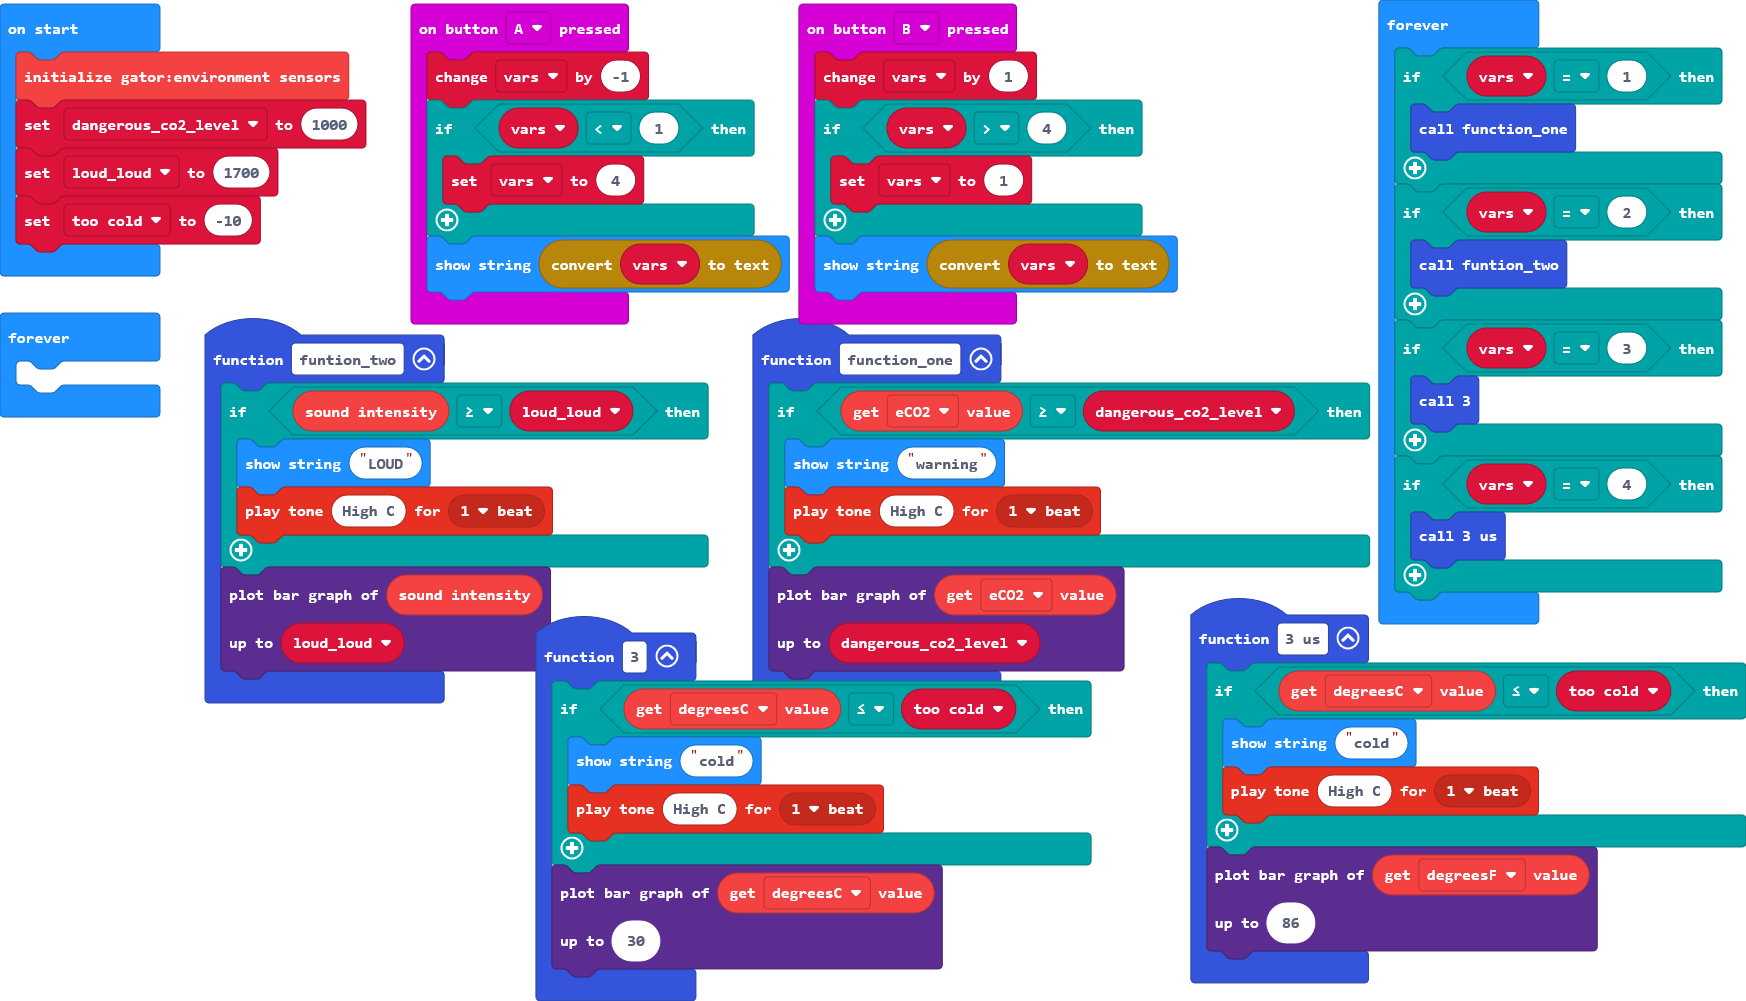
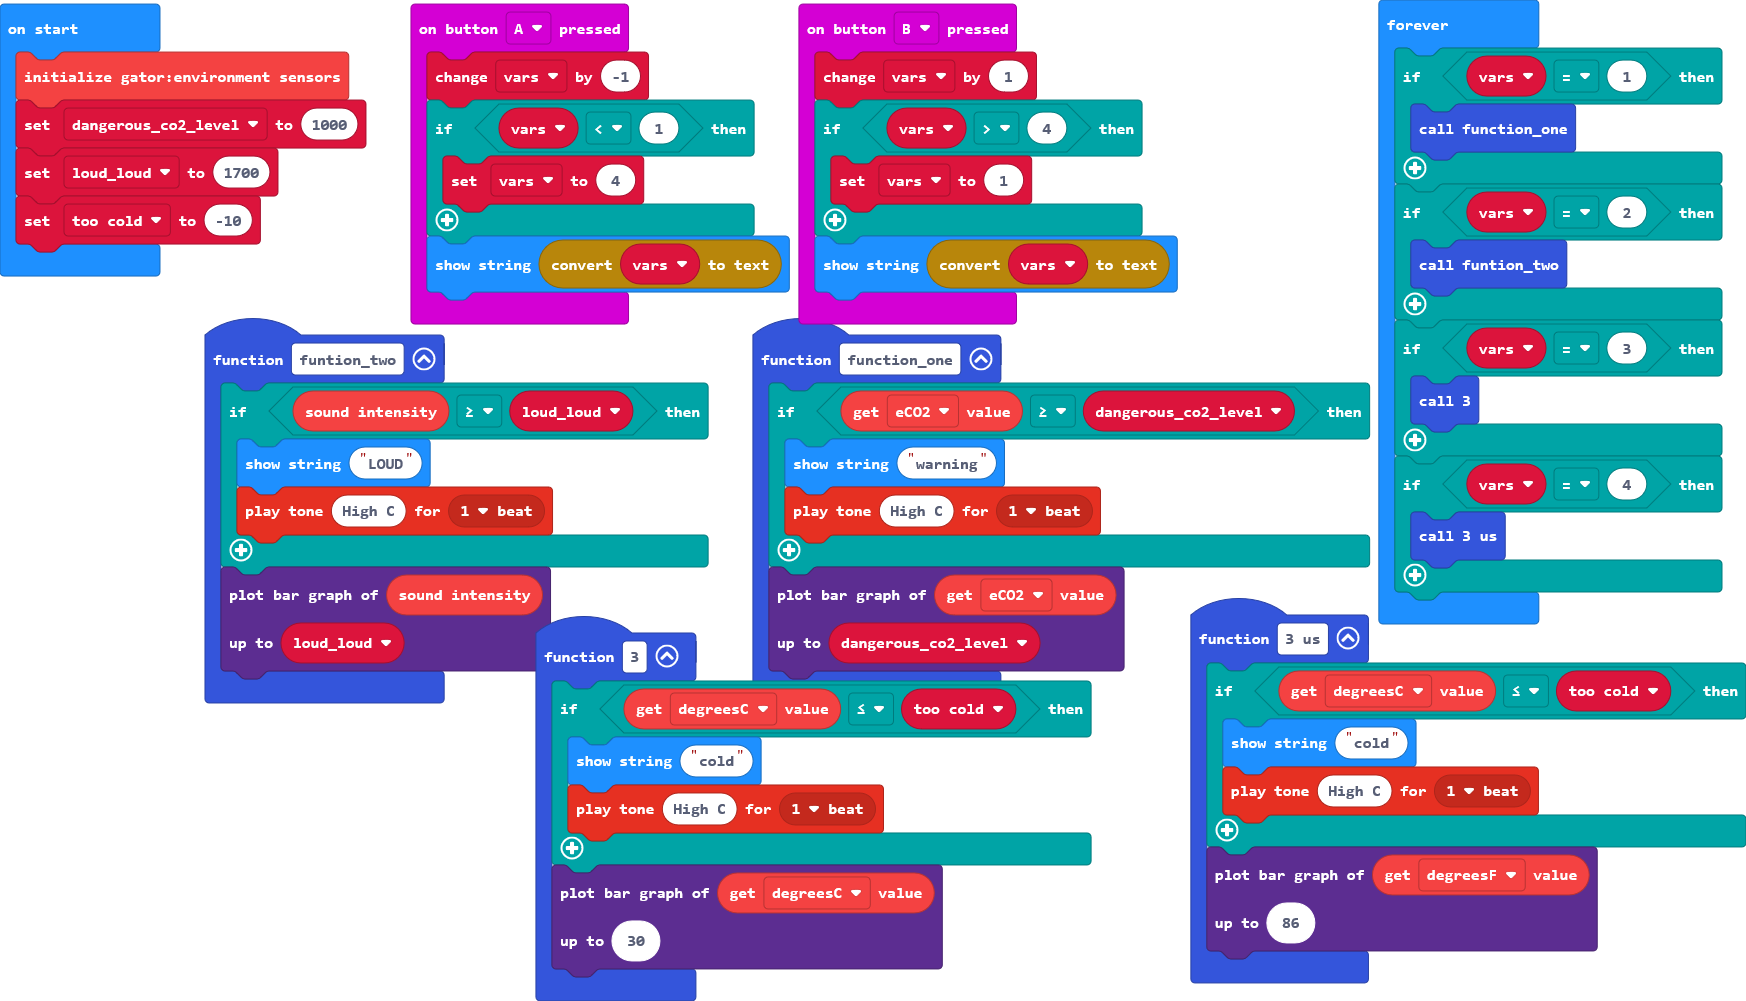
Update main.blocks, main.ts

Changed region(s): [[0.0, 0.3097, 0.0928, 0.4336]]

diff --git a/main.ts b/main.ts
@@ -74,6 +74,3 @@ basic.forever(function () {
         _3_us()
     }
 })
-basic.forever(function () {
-	
-})
